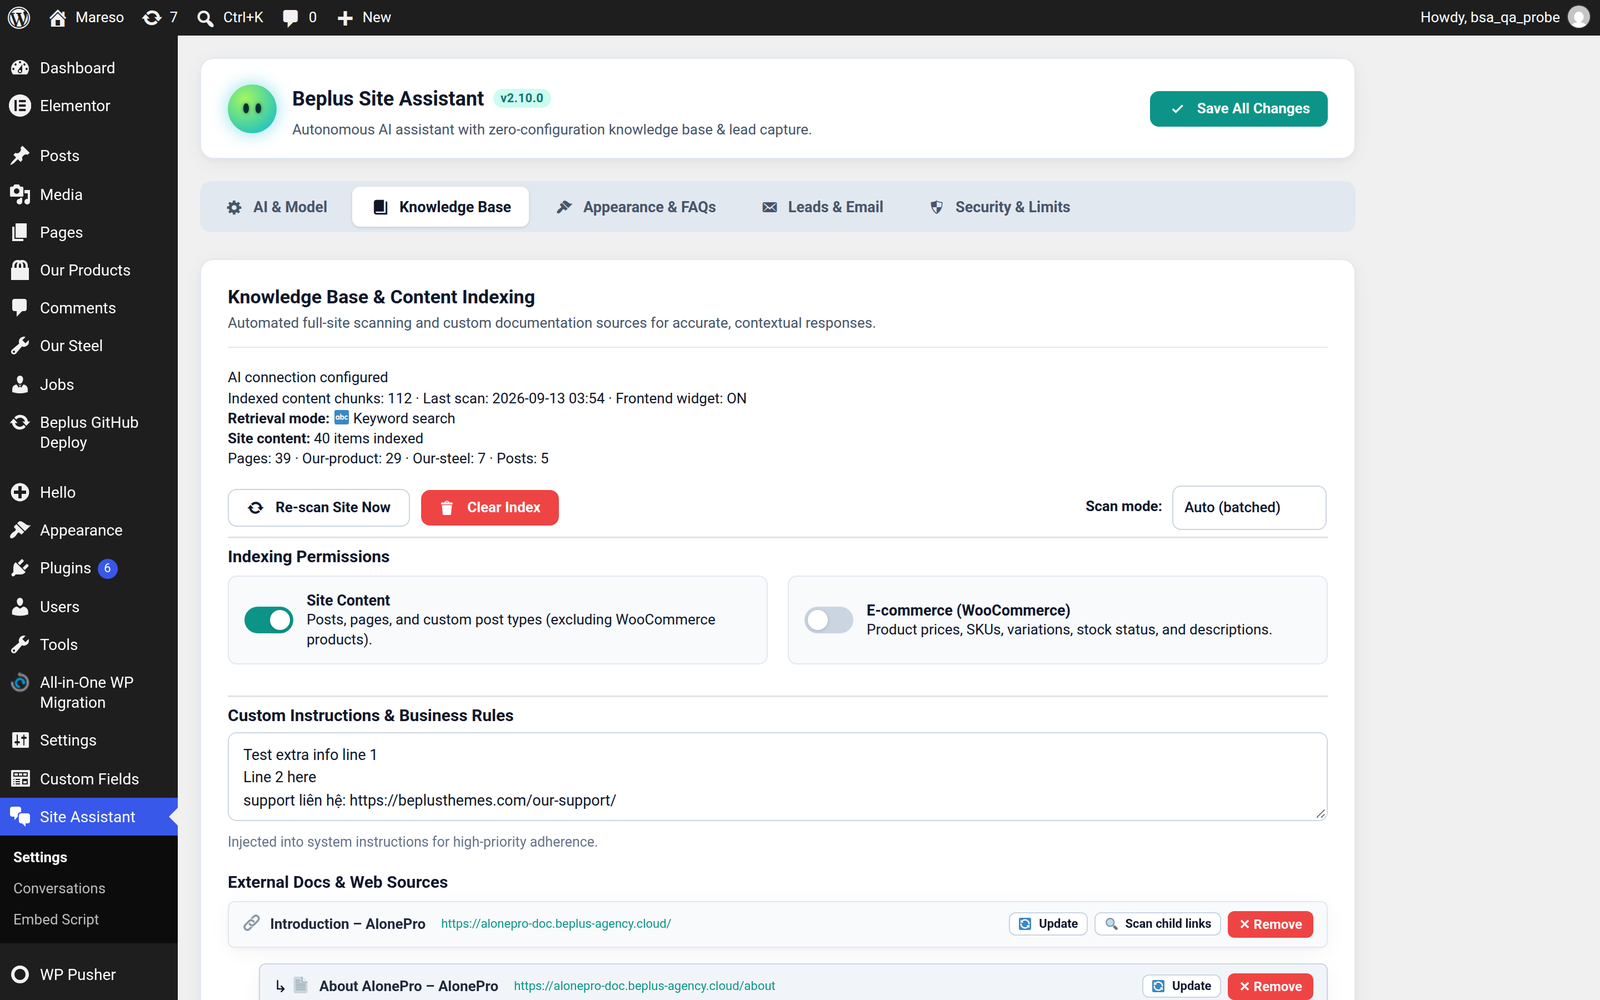
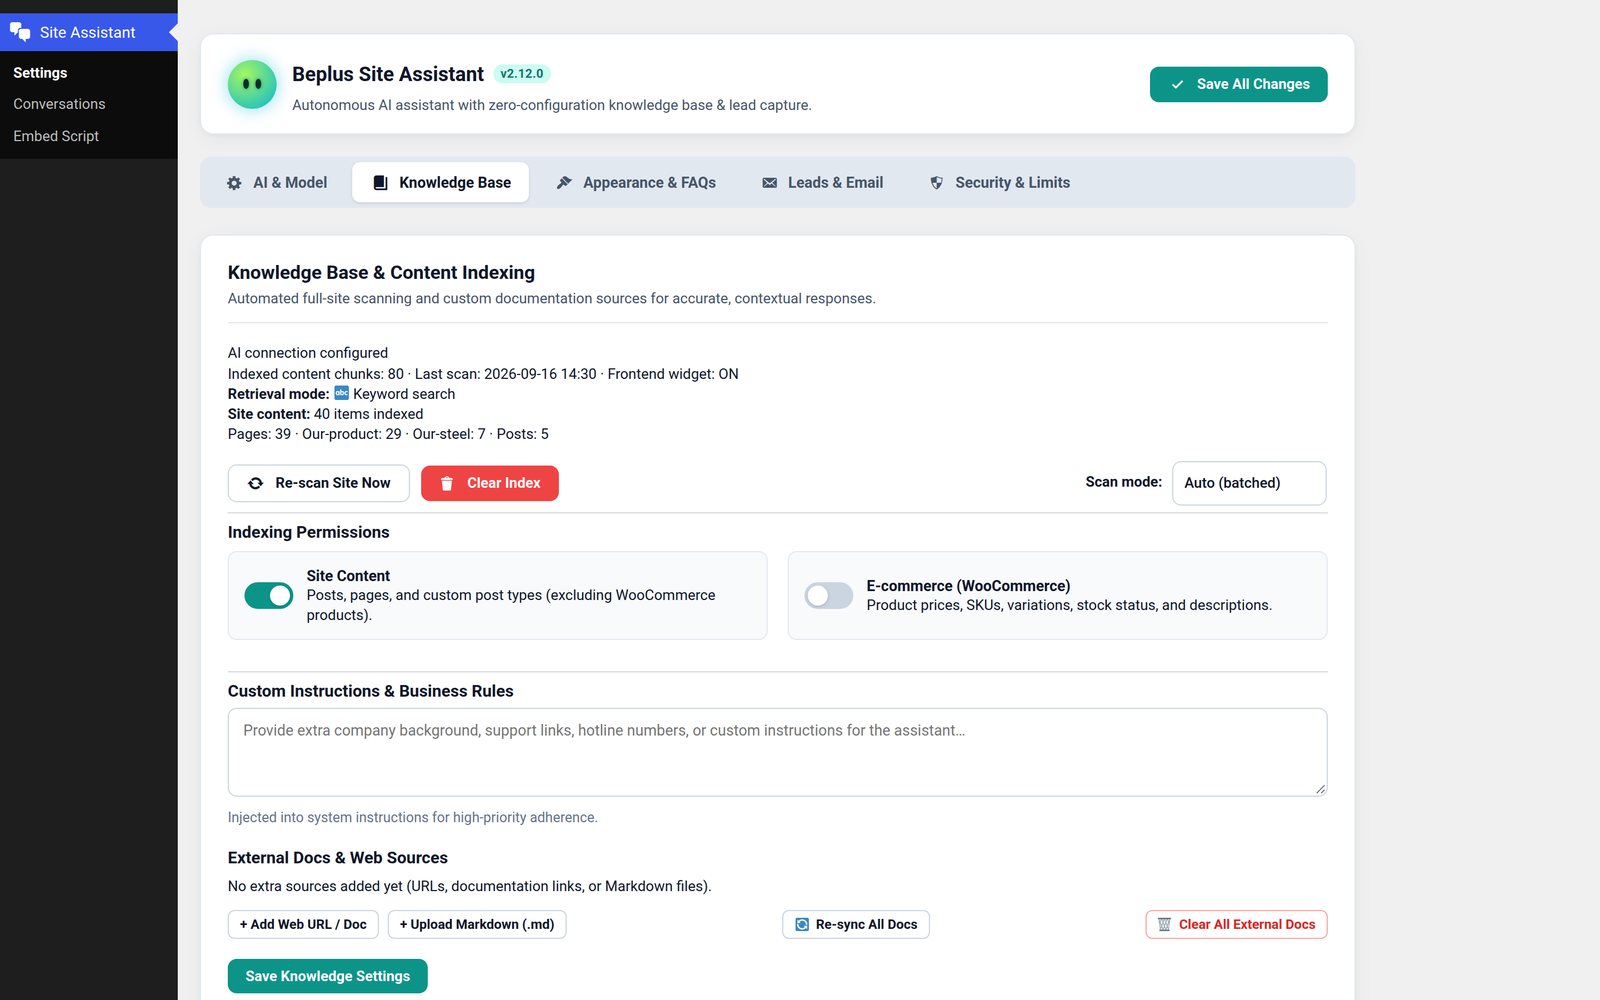
docs: clean admin screenshots by hiding top bar and irrelevant menus
- Hide WordPress top admin bar (#wpadminbar) to remove user info, updates, and site title
- Keep only Site Assistant and its submenus in the left sidebar
- Re-capture all 10 admin settings, conversation, export, and embed screens
- Maintain high-resolution retina rendering with sensitive credentials blurred

diff --git a/scripts/capture-clean-menu.py b/scripts/capture-clean-menu.py
@@ -1,0 +1,238 @@
+#!/usr/bin/env python3
+"""Capture clean documentation screenshots for Beplus Site Assistant.
+
+Requirements from user:
+1. Hide unwanted left admin menu items, leaving ONLY the plugin's menu:
+   - "Site Assistant" (Settings, Conversations, Embed Script)
+   - Keep the clean sidebar structure/background intact.
+2. Hide the top WordPress admin bar (#wpadminbar) so no personal greeting,
+   site name, update counts, or irrelevant toolbar icons appear.
+3. Keep the content area high-res, with credentials (API key/endpoint) blurred/scrubbed.
+4. Replace live server hostnames and visitor PII with clean documentation samples.
+"""
+import json
+import pathlib
+from PIL import Image
+from playwright.sync_api import sync_playwright
+
+BASE = "https://160-250-135-47.sslip.io"
+CHROME = "/root/.agent-browser/browsers/chrome-153.0.8010.36/chrome"
+OUT_DIR = pathlib.Path("/root/beplus-site-assistant-doc/public/img")
+COOKIE_FILE = pathlib.Path("/tmp/sufe_wp_cookies.json")
+
+# Styling injected before taking any screenshot:
+# - Hide wpadminbar completely and remove the 32px top padding from html/body.
+# - In #adminmenu, hide all li elements EXCEPT the one containing the plugin link.
+# - Hide collapse button, separator lines that look orphaned.
+# - Ensure credentials remain blurred.
+CLEAN_CHROME_CSS = """
+() => {
+  const style = document.createElement('style');
+  style.id = 'bsa-doc-clean-chrome';
+  style.textContent = `
+    /* 1. Hide WordPress Admin Bar and reset top margins/paddings */
+    #wpadminbar {
+      display: none !important;
+    }
+    html.wp-toolbar {
+      padding-top: 0 !important;
+    }
+    #wpcontent, #wpfooter {
+      margin-top: 0 !important;
+    }
+    #wpbody {
+      padding-top: 10px !important;
+    }
+
+    /* 2. Left Admin Menu: keep ONLY Site Assistant */
+    #adminmenu > li:not(.toplevel_page_beplus-site-assistant) {
+      display: none !important;
+    }
+    #collapse-menu {
+      display: none !important;
+    }
+
+    /* 3. Credentials blur */
+    #bsa-endpoint, #bsa-key, [id*="endpoint"], [id*="api-key"], [id*="bsa-key"] {
+      filter: blur(6px) !important;
+    }
+  `;
+  document.head.appendChild(style);
+}
+"""
+
+REDACT_JS = """
+() => {
+  const MAIL = /[\\w.+-]+@[\\w-]+\\.[\\w.]{2,}/g;
+  const IP = /\\b\\d{1,3}\\.\\d{1,3}\\.\\d{1,3}\\.\\d{1,3}\\b/g;
+  const HOST = /160-250-135-47\\.sslip\\.io/g;
+  const emails = ['alex@example.com', 'sam@example.com', 'jo@example.com'];
+  const names = ['Alex Morgan', 'Sam Reed', 'Jo Blake'];
+
+  const scrub = (el, sample, allowName) => {
+    const walk = (node) => {
+      for (const child of [...node.childNodes]) {
+        if (child.nodeType === 3) {
+          let t = child.nodeValue;
+          if (!t) continue;
+          if (sample !== null) {
+            const bare = t.trim();
+            const hasMail = MAIL.test(bare);
+            const looksLikeName =
+              allowName && !hasMail && bare && bare.length < 40 &&
+              !/[:@\\d\\/]/.test(bare) &&
+              !/^(guest|visitor|page|name|actions)$/i.test(bare);
+            if (hasMail) t = t.replace(MAIL, emails[sample % emails.length]);
+            if (looksLikeName) t = t.replace(bare, names[sample % names.length]);
+          }
+          if (IP.test(t)) t = t.replace(IP, '203.0.113.10');
+          if (HOST.test(t)) t = t.replace(HOST, 'your-wordpress.com');
+          if (t !== child.nodeValue) child.nodeValue = t;
+        } else if (child.nodeType === 1) {
+          walk(child);
+        }
+      }
+    };
+    walk(el);
+  };
+
+  let k = 0;
+  [...document.querySelectorAll('table tr')].forEach((tr) => {
+    if (tr.querySelector('th')) { scrub(tr, null, false); return; }
+    const cellWithMail = [...tr.querySelectorAll('td')].find(
+      td => /[\\w.+-]+@[\\w-]+\\.[\\w.]{2,}/.test(td.innerText || '')
+    );
+    const idx = cellWithMail ? k++ : null;
+    [...tr.querySelectorAll('td')].forEach(td => {
+      scrub(td, idx, td === cellWithMail);
+    });
+  });
+  scrub(document.body, null, false);
+}
+"""
+
+def prepare_page(page):
+    page.evaluate(CLEAN_CHROME_CSS)
+    page.evaluate(REDACT_JS)
+    page.wait_for_timeout(300)
+
+def optimize_image(path):
+    with Image.open(path) as im:
+        im = im.convert("RGB")
+        if im.width > 1600:
+            new_h = round(im.height * 1600 / im.width)
+            resample = getattr(Image, 'Resampling', Image).LANCZOS
+            im = im.resize((1600, new_h), resample)
+        im.save(path, "PNG", optimize=True)
+
+def main():
+    with open(COOKIE_FILE) as f:
+        auth = json.load(f)
+
+    with sync_playwright() as p:
+        browser = p.chromium.launch(
+            executable_path=CHROME,
+            args=["--no-sandbox", "--disable-gpu", "--disable-dev-shm-usage"],
+        )
+        ctx = browser.new_context(
+            viewport={"width": 1440, "height": 900},
+            device_scale_factor=2,
+            ignore_https_errors=True,
+        )
+        ctx.add_cookies([
+            {
+                "name": auth["logged_in_name"],
+                "value": auth["logged_in_val"],
+                "domain": "160-250-135-47.sslip.io",
+                "path": "/",
+                "httpOnly": True,
+                "secure": True,
+                "sameSite": "Lax",
+            },
+            {
+                "name": auth["secure_name"],
+                "value": auth["secure_val"],
+                "domain": "160-250-135-47.sslip.io",
+                "path": "/wp-admin",
+                "httpOnly": True,
+                "secure": True,
+                "sameSite": "Lax",
+            },
+        ])
+        page = ctx.new_page()
+
+        # 1. Settings tabs
+        settings_tabs = [
+            ("AI & Model", "01-settings-ai.png"),
+            ("Knowledge Base", "02-settings-knowledge.png"),
+            ("Appearance & FAQs", "03-settings-appearance.png"),
+            ("Leads & Email", "04-settings-leads.png"),
+            ("Security & Limits", "05-settings-security.png"),
+        ]
+
+        for tab_name, fname in settings_tabs:
+            print(f"Capturing Settings -> {tab_name} ({fname})...")
+            page.goto(f"{BASE}/wp-admin/admin.php?page=beplus-site-assistant", wait_until="networkidle")
+            page.wait_for_timeout(800)
+            try:
+                page.get_by_role("button", name=tab_name, exact=False).first.click()
+                page.wait_for_timeout(1000)
+            except Exception as e:
+                print(f"  Warning clicking tab {tab_name}: {e}")
+            prepare_page(page)
+            out_path = OUT_DIR / fname
+            page.screenshot(path=str(out_path))
+            optimize_image(out_path)
+            print(f"  Saved {fname} ({out_path.stat().st_size} bytes)")
+
+        # 2. Conversations tabs
+        conv_tabs = [
+            ("Live Sessions", "06-conversations-live.png"),
+            ("SEO Insights", "07-conversations-seo.png"),
+            ("Storage", "08-conversations-storage.png"),
+        ]
+        for tab_name, fname in conv_tabs:
+            print(f"Capturing Conversations -> {tab_name} ({fname})...")
+            page.goto(f"{BASE}/wp-admin/admin.php?page=beplus-site-assistant-live", wait_until="networkidle")
+            page.wait_for_timeout(800)
+            try:
+                page.get_by_role("button", name=tab_name, exact=False).first.click()
+                page.wait_for_timeout(1500)
+            except Exception as e:
+                print(f"  Warning clicking tab {tab_name}: {e}")
+            prepare_page(page)
+            out_path = OUT_DIR / fname
+            page.screenshot(path=str(out_path))
+            optimize_image(out_path)
+            print(f"  Saved {fname} ({out_path.stat().st_size} bytes)")
+
+        # 3. Embed Script page
+        print("Capturing Embed Script (09-embed-script.png)...")
+        page.goto(f"{BASE}/wp-admin/admin.php?page=beplus-site-assistant-embed", wait_until="networkidle")
+        page.wait_for_timeout(1000)
+        prepare_page(page)
+        out_path = OUT_DIR / "09-embed-script.png"
+        page.screenshot(path=str(out_path))
+        optimize_image(out_path)
+        print(f"  Saved 09-embed-script.png ({out_path.stat().st_size} bytes)")
+
+        # 4. Export dialog
+        print("Capturing Export dialog (13-export.png)...")
+        page.goto(f"{BASE}/wp-admin/admin.php?page=beplus-site-assistant-live", wait_until="networkidle")
+        page.wait_for_timeout(1200)
+        try:
+            page.get_by_role("button", name="Export", exact=False).first.click()
+            page.wait_for_timeout(1200)
+        except Exception as e:
+            print(f"  Warning clicking Export: {e}")
+        prepare_page(page)
+        out_path = OUT_DIR / "13-export.png"
+        page.screenshot(path=str(out_path))
+        optimize_image(out_path)
+        print(f"  Saved 13-export.png ({out_path.stat().st_size} bytes)")
+
+        browser.close()
+    print("All captures completed successfully!")
+
+if __name__ == "__main__":
+    main()
